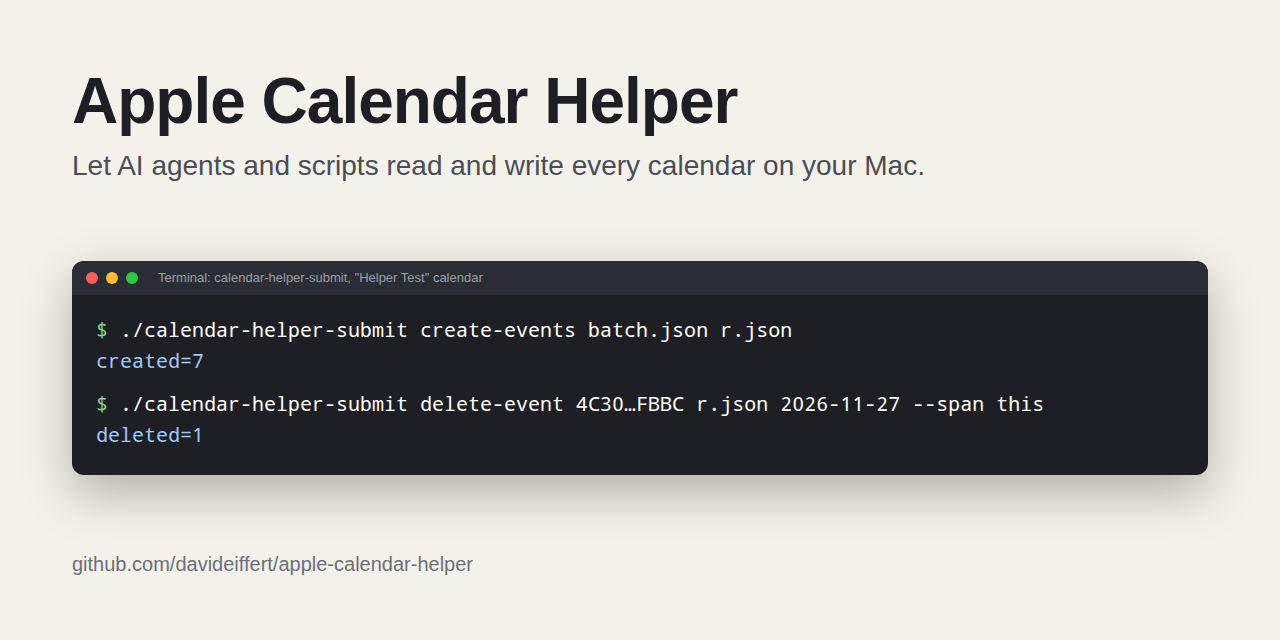
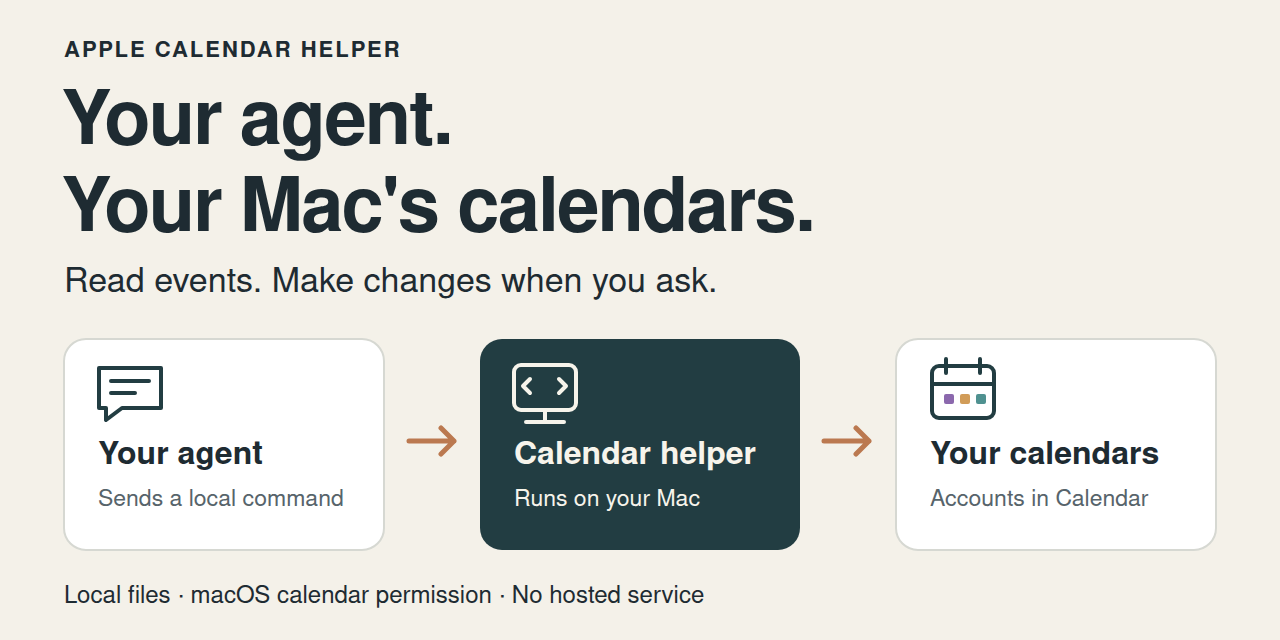
Calendar launch polish: explain setup and show the agent-to-calendar flow

diff --git a/README.md b/README.md
@@ -1,14 +1,18 @@
 # Apple Calendar Helper
 
-Let your AI agents and scripts read and write every calendar on your Mac.
+Let your AI agents use the calendars already on your Mac.
 
-Apple has no API that covers every calendar in the Calendar app. iCloud speaks CalDAV, but only for iCloud calendars, and it needs an app-specific password. EventKit sees every account on the Mac, but it only works inside an app the user has granted calendar access, and agents usually run in a terminal or over SSH. This helper is that app. Anything that can write a file can ask it to do calendar work.
+Ask your agent what next week looks like, or have it make a calendar change you requested. Apple Calendar Helper gives local agents and scripts a way to read and change events through a small background app with macOS calendar permission.
 
-![Real output from a test calendar: a batch with an unsupported rule creates nothing, a fixed batch creates 7 events, and deleting one occurrence of a repeating event needs a span](docs/screenshot.png)
+![Your agent sends a local command to Apple Calendar Helper, which accesses the calendars on your Mac](docs/social-preview.png)
+
+*How it works. This graphic is an illustration, not an app screenshot.*
+
+iCloud's CalDAV API covers iCloud calendars. Apple's EventKit API sees the accounts in Calendar on your Mac, but it needs calendar permission. The helper holds that permission and accepts commands through local files. It has no hosted service or separate calendar account. Read-only calendars stay read-only.
 
 ## Try it
 
-Needs a Mac and the Xcode command line tools (`xcode-select --install`).
+Needs a Mac and the Xcode command line tools (`xcode-select --install`). This release builds from source; it does not include a downloadable app.
 
 ```bash
 git clone https://github.com/davideiffert/apple-calendar-helper
@@ -19,6 +23,26 @@ open "build/Apple Calendar Helper.app"
 ```
 
 The first launch shows the macOS calendar permission prompt. Click Allow. `list-calendars` waits for that, then prints each account, calendar name, and ID. After the first launch, `open -a "Apple Calendar Helper"` starts it from anywhere.
+
+### Read the next seven days
+
+Use an account name from `list-calendars`. This example reads every calendar in the `iCloud` account, from today up to the same day next week, and writes `events.json`. It does not change any events.
+
+```bash
+./calendar-helper-submit dump-events "iCloud" '*' \
+  "$(date +%F)" "$(date -v+7d +%F)" events.json
+python3 -m json.tool events.json
+```
+
+The date commands above are for macOS. To read another account, replace `iCloud` with its name. Repeat for each account you want included.
+
+### Give it to your agent
+
+Open this checkout in your agent and give it a task like:
+
+> Read this repository's AGENTS.md. Use calendar-helper-submit to list the accounts, then read the next seven days from each account and summarize my week. Use only list-calendars and dump-events. Do not change events.
+
+The agent needs to run on this Mac or reach it over SSH. The helper must already be running and have calendar permission. Calendar changes still need your instruction.
 
 ## How it works
 
@@ -160,6 +184,10 @@ Everything is checked before saving. The receipt holds the event before and afte
 A repeating event needs the occurrence's start and a span. `--span future` from the first occurrence deletes the whole series.
 
 ## When something goes wrong
+
+This real output from a throwaway test calendar shows invalid input creating nothing, a corrected batch creating seven events, and a repeating-event deletion requiring an explicit span.
+
+![Real test-calendar output showing validation and a corrected batch](docs/screenshot.png)
 
 Results print as `key=value` lines (`list-calendars` prints one tab-separated row per calendar). Failures exit non-zero and say what to do next:
 
